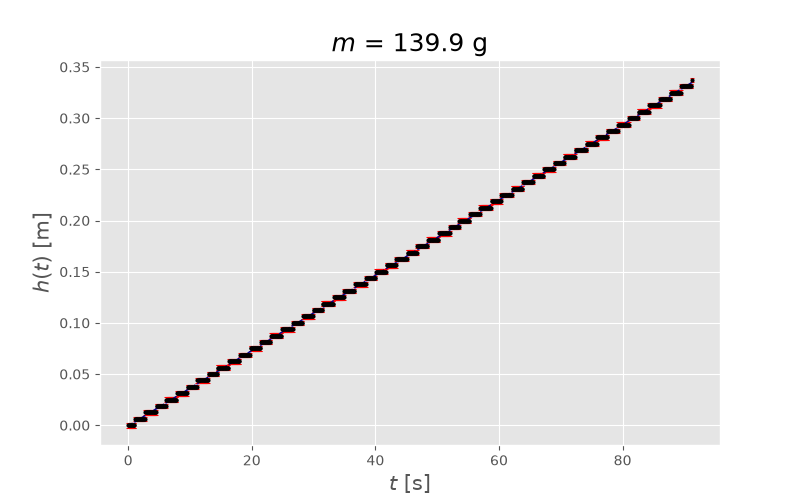
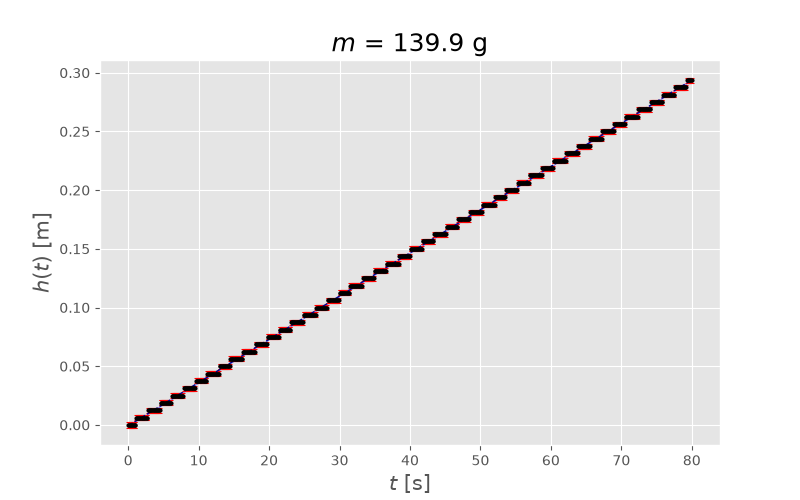
aggiustamentazioni

diff --git a/tenuta_cilindro.py b/tenuta_cilindro.py
@@ -13,7 +13,7 @@ M = [0, 31.5, 63.0, 101.3, 139.9] # g
 P = [] # kPa
 P_0 = 101.11 # kPa
 
-dm = 0.1*1.e-2 # g
+dm = 0.1 # g
 
 df_beta = pd.DataFrame({
     "P": [],
@@ -22,7 +22,7 @@ df_beta = pd.DataFrame({
 })
 
 for i in range(1, 5):
-    data_vol = converti(f"./misure/Tenuta_cilindro/posizione/{i+1}.txt")
+    data_vol = converti(f"./misure/Tenuta_cilindro/posizione_senza_termometro/{i+1}.txt")
     data_vol["Posizione(m)"] = -data_vol["Posizione(m)"]*1.e2 # converto in cm ed inverto
     if (i == 4):
         data_vol = data_vol.drop(data_vol[(data_vol['Tempo(s)'] > 80)].index)
@@ -45,15 +45,17 @@ for i in range(1, 5):
     fig.set_size_inches(8, 5)
     fit.graph(ax, ("$t$ [s]", "$h(t)$ [m]"), 2, 15)
     ax.set_title(f"$m$ = {M[i]} g", fontsize=18)
-    plt.savefig(f"./immagini/tenuta_cilindro/con_termometro/posizione_{i+1}.png")
+    plt.savefig(f"./immagini/tenuta_cilindro/senza_termometro/posizione_{i+1}.png")
     plt.show()
 
     # Ricava la superficie
-    data_p = converti(f"./misure/Tenuta_cilindro/pressione/{i+1}.txt")
+    data_p = converti(f"./misure/Tenuta_cilindro/pressione_senza_termometro/{i+1}.txt")
     P = data_p["Pressione(kPa)"].mean() # media
     dP = np.sqrt(0.005**2 + (data_p["Pressione(kPa)"].std(ddof=1)**2)/data_p.__len__()) #kPa
 
     S = ((M[i]*G)/P)*1.e-2 # mm^2 -> cm^2
+
+    dS = G * (M[i]/P)*np.sqrt((dm/M[i])**2 + (dP/P)**2) * 1.e-2
 
     alpha = alpha*60 # cm/s -> cm/min
     d_alpha = np.sqrt(fit.get_fit_params()[1][0][0]) * 60
@@ -61,7 +63,7 @@ for i in range(1, 5):
     # if i==0:
     #     d_beta = beta * np.sqrt((dP/P)**2 + (d_alpha/alpha)**2) 
     # else:
-    d_beta = beta * np.sqrt((dm/M[i])**2 + (dP/P)**2 + (d_alpha/alpha)**2)
+    d_beta = beta * np.sqrt((dS/S)**2 + (d_alpha/alpha)**2)
 
     df_beta.loc[i] = [P, beta, d_beta]
 
@@ -71,7 +73,7 @@ fit_beta = LinearFit(df_beta, "P", "beta", "d_beta")
 
 fig, ax = plt.subplots()
 fit_beta.graph(ax, ("$\\Delta P$ [kPa]", "$\\beta$ [cm$^3$/min]"), 5, 15)
-plt.savefig("./immagini/tenuta_cilindro/con_termometro/beta.png")
+plt.savefig("./immagini/tenuta_cilindro/senza_termometro/beta.png")
 plt.show()
 
 print(fit_beta.get_chi2().chi2)
